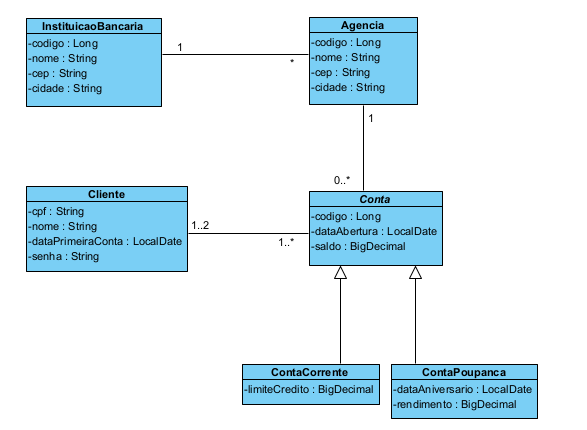
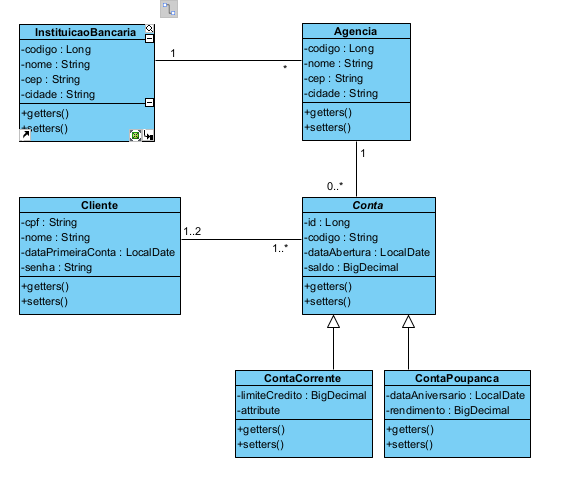
Atualização dos Diagramas e Controllers, Services e DTOs

Changed region(s): [[0.0311, 0.0, 0.9343, 0.9977]]

diff --git a/src/main/java/br/edu/fateczl/sistema_bancario/service/AgenciaService.java b/src/main/java/br/edu/fateczl/sistema_bancario/service/AgenciaService.java
@@ -4,45 +4,70 @@ import br.edu.fateczl.sistema_bancario.dto.AgenciaDTO;
 import br.edu.fateczl.sistema_bancario.model.Agencia;
 import br.edu.fateczl.sistema_bancario.model.InstituicaoBancaria;
 import br.edu.fateczl.sistema_bancario.persistence.AgenciaRepository;
+import br.edu.fateczl.sistema_bancario.persistence.InstituicaoBancariaRepository;
 import org.springframework.beans.factory.annotation.Autowired;
 import org.springframework.stereotype.Service;
 
+import java.util.ArrayList;
 import java.util.List;
 
 @Service
 public class AgenciaService {
+
     @Autowired
     private AgenciaRepository agenciaRepository;
 
-    public String inserirAgencia(AgenciaDTO dto) {
-        InstituicaoBancaria instituicaoBancaria = new InstituicaoBancaria();
-        instituicaoBancaria.setCodigo(dto.getInstituicaoCodigo());
+    @Autowired
+    private InstituicaoBancariaRepository instituicaoBancariaRepository;
 
-        Agencia agencia = new Agencia();
-        agencia.setNome(dto.getNome());
-        agencia.setCep(dto.getCep());
-        agencia.setCidade(dto.getCidade());
-        agencia.setInstituicao(instituicaoBancaria);
+    public void inserirAgencia(AgenciaDTO dto) {
+        InstituicaoBancaria instituicao = instituicaoBancariaRepository.findById(dto.getCodigoInstituicao()).orElseThrow(() -> new RuntimeException("Instituição não encontrada"));
 
-        agenciaRepository.save(agencia);
-        return "Agencia criada com sucesso";
+        Agencia entidade = new Agencia();
+        entidade.setCodigo(dto.getCodigo());
+        entidade.setNome(dto.getNome());
+        entidade.setCep(dto.getCep());
+        entidade.setCidade(dto.getCidade());
+        entidade.setInstituicao(instituicao);
+        agenciaRepository.save(entidade);
     }
 
-    public String modificarAgencia(Agencia agencia) {
-        agenciaRepository.save(agencia);
-        return "Agencia atualizada com sucesso";
+    public AgenciaDTO buscarAgencia(Long codigo){
+        Agencia agencia = agenciaRepository.findById(codigo).orElseThrow(() -> new RuntimeException("Agencia não encontrada"));
+        return new AgenciaDTO(
+                agencia.getCodigo(),
+                agencia.getNome(),
+                agencia.getCep(),
+                agencia.getCidade(),
+                codigo
+        );
     }
 
-    public String excluirAgencia(Long codigo) {
+    public void modificarAgencia(AgenciaDTO dto) {
+        Agencia agencia = agenciaRepository.findById(dto.getCodigo()).orElseThrow(() -> new RuntimeException("Instituição Bancaria não encontrada"));
+        if (dto.getNome() != null) agencia.setNome(dto.getNome());
+        if (dto.getCep() != null) agencia.setCep(dto.getCep());
+        if (dto.getCidade() != null) agencia.setCidade(dto.getCidade());
+        agenciaRepository.save(agencia);
+    }
+
+    public void excluirAgencia(Long codigo) {
         agenciaRepository.deleteById(codigo);
-        return "Agencia excluída com sucesso";
     }
 
-    public Agencia buscarAgencia(Long codigo){
-        return agenciaRepository.findById(codigo).orElse(null);
-    }
+    public List<AgenciaDTO> listarAgencias() {
+        List<Agencia> listaEntidades = agenciaRepository.findAll();
+        List<AgenciaDTO> resposta = new ArrayList<>();
 
-    public List<Agencia> listarAgencias() {
-        return agenciaRepository.findAll();
+        for (Agencia i : listaEntidades) {
+            resposta.add(new AgenciaDTO(
+                    i.getCodigo(),
+                    i.getNome(),
+                    i.getCep(),
+                    i.getCidade(),
+                    i.getCodigo()
+            ));
+        }
+        return resposta;
     }
 }

diff --git a/src/main/java/br/edu/fateczl/sistema_bancario/service/InstituicaoBancariaService.java b/src/main/java/br/edu/fateczl/sistema_bancario/service/InstituicaoBancariaService.java
@@ -6,10 +6,12 @@ import br.edu.fateczl.sistema_bancario.persistence.InstituicaoBancariaRepository
 import org.springframework.beans.factory.annotation.Autowired;
 import org.springframework.stereotype.Service;
 
+import java.util.ArrayList;
 import java.util.List;
 
 @Service
 public class InstituicaoBancariaService {
+
     @Autowired
     private InstituicaoBancariaRepository instituicaoBancariaRepository;
 
@@ -22,21 +24,40 @@ public class InstituicaoBancariaService {
         instituicaoBancariaRepository.save(entidade);
     }
 
-    public String atualizarInstituicaoBancaria(InstituicaoBancaria instituicaoBancaria) {
-        instituicaoBancariaRepository.save(instituicaoBancaria);
-        return "Instituicao Bancaria atualizada com sucesso";
+    public InstituicaoBancariaDTO buscarInstituicaoBancaria(Long codigo) {
+        InstituicaoBancaria instituicao = instituicaoBancariaRepository.findById(codigo).orElseThrow(() -> new RuntimeException("Instituição Bancaria não encontrada"));
+        return new InstituicaoBancariaDTO(
+                instituicao.getCodigo(),
+                instituicao.getNome(),
+                instituicao.getCep(),
+                instituicao.getCidade()
+        );
     }
 
-    public String excluirInstituicaoBancaria(Long codigo) {
+    public void atualizarInstituicaoBancaria(InstituicaoBancariaDTO dto) {
+        InstituicaoBancaria entidade = instituicaoBancariaRepository.findById(dto.getCodigo()).orElseThrow(() -> new RuntimeException("Instituição Bancaria não encontrada"));
+        if (dto.getNome() != null) entidade.setNome(dto.getNome());
+        if (dto.getCep() != null) entidade.setCep(dto.getCep());
+        if (dto.getCidade() != null) entidade.setCidade(dto.getCidade());
+        instituicaoBancariaRepository.save(entidade);
+    }
+
+    public void excluirInstituicaoBancaria(Long codigo) {
         instituicaoBancariaRepository.deleteById(codigo);
-        return "Instituicao Bancaria excluída com sucesso";
     }
 
-    public InstituicaoBancaria buscarInstituicaoBancaria(Long codigo){
-        return instituicaoBancariaRepository.findById(codigo).orElse(null);
-    }
+    public List<InstituicaoBancariaDTO> listarInstituicoesBancarias() {
+        List<InstituicaoBancaria> listaEntidades = instituicaoBancariaRepository.findAll();
+        List<InstituicaoBancariaDTO> resposta = new ArrayList<>();
 
-    public List<InstituicaoBancaria> listarInstituicoesBancarias() {
-        return instituicaoBancariaRepository.findAll();
+        for (InstituicaoBancaria i : listaEntidades) {
+            resposta.add(new InstituicaoBancariaDTO(
+                    i.getCodigo(),
+                    i.getNome(),
+                    i.getCep(),
+                    i.getCidade()
+            ));
+        }
+        return resposta;
     }
 }

diff --git a/src/main/java/br/edu/fateczl/sistema_bancario/controller/InstituicaoBancariaController.java b/src/main/java/br/edu/fateczl/sistema_bancario/controller/InstituicaoBancariaController.java
@@ -2,7 +2,6 @@ package br.edu.fateczl.sistema_bancario.controller;
 
 
 import br.edu.fateczl.sistema_bancario.dto.InstituicaoBancariaDTO;
-import br.edu.fateczl.sistema_bancario.model.InstituicaoBancaria;
 import br.edu.fateczl.sistema_bancario.service.InstituicaoBancariaService;
 import org.springframework.beans.factory.annotation.Autowired;
 import org.springframework.web.bind.annotation.*;
@@ -23,17 +22,12 @@ public class InstituicaoBancariaController {
     }
 
     @GetMapping("/{codigo}")
-    public InstituicaoBancaria buscarInstituicaoBancaria(@PathVariable Long codigo) {
+    public InstituicaoBancariaDTO buscarInstituicaoBancaria(@PathVariable Long codigo) {
         return instituicaoBancariaService.buscarInstituicaoBancaria(codigo);
     }
 
-    @GetMapping
-    public List<InstituicaoBancaria> listarInstituicoesBancarias() {
-        return instituicaoBancariaService.listarInstituicoesBancarias();
-    }
-
     @PutMapping
-    public String atualizarInstituicaoBancaria(@RequestBody InstituicaoBancaria instituicao) {
+    public String atualizarInstituicaoBancaria(@RequestBody InstituicaoBancariaDTO instituicao) {
         instituicaoBancariaService.atualizarInstituicaoBancaria(instituicao);
         return "Instituicao Bancaria modificada";
     }
@@ -43,4 +37,10 @@ public class InstituicaoBancariaController {
         instituicaoBancariaService.excluirInstituicaoBancaria(codigo);
         return "Instituição Bancária excluida com sucesso";
     }
+
+    @GetMapping
+    public List<InstituicaoBancariaDTO> listarInstituicoesBancarias() {
+        return instituicaoBancariaService.listarInstituicoesBancarias();
+    }
+
 }

diff --git a/src/main/java/br/edu/fateczl/sistema_bancario/service/ContaService.java b/src/main/java/br/edu/fateczl/sistema_bancario/service/ContaService.java
@@ -10,6 +10,7 @@ import java.util.List;
 
 @Service
 public class ContaService {
+
     @Autowired
     private ContaRepository contaRepository;
 
@@ -17,11 +18,15 @@ public class ContaService {
     private ContaProcedureRepository contaProcedureRepository;
 
     public String criarConta(Conta conta) {
-        return contaProcedureRepository.criarConta(
+        return contaProcedureRepository.criarConta( //TODO
                 conta.getDataAbertura(),
                 conta.getSaldo(),
                 conta.getAgencia().getCodigo()
         );
+    }
+
+    public Conta buscarConta(Long id){
+        return contaRepository.findById(id).orElse(null);
     }
 
     public String atualizarSaldo(Conta conta) {
@@ -48,10 +53,6 @@ public class ContaService {
         return "Conta excluída com sucesso";
     }
 
-    public Conta buscarConta(Long id){
-        return contaRepository.findById(id).orElse(null);
-    }
-
     public List<Conta> listarContas() {
         return contaRepository.findAll();
     }
@@ -63,7 +64,7 @@ public class ContaService {
 //
 //    public Conta buscarDadosContas(String cpf) {
 //        //Da pra fazer sem procedure eu acho
-//        //TODO basicamente pegar do banco e montar um DTO pra jogar, seria tipo um find all by id
+//        //TODO basicamente pegar do banco e montar um DTO pra jogar, seria tipo um find all by cpf
 //        return null;
 //    }
 }

diff --git a/src/main/java/br/edu/fateczl/sistema_bancario/controller/AgenciaController.java b/src/main/java/br/edu/fateczl/sistema_bancario/controller/AgenciaController.java
@@ -22,17 +22,12 @@ public class AgenciaController {
     }
 
     @GetMapping("/{codigo}")
-    public Agencia buscarAgencia(@PathVariable Long codigo) {
+    public AgenciaDTO buscarAgencia(@PathVariable Long codigo) {
         return agenciaService.buscarAgencia(codigo);
     }
 
-    @GetMapping
-    public List<Agencia> listarAgencias() {
-        return agenciaService.listarAgencias();
-    }
-
     @PutMapping
-    public String modificarAgencia(@RequestBody Agencia agencia) {
+    public String modificarAgencia(@RequestBody AgenciaDTO agencia) {
         agenciaService.modificarAgencia(agencia);
         return "Agencia modificada com sucesso";
     }
@@ -41,5 +36,9 @@ public class AgenciaController {
     public String excluirAgencia(@PathVariable Long codigo) {
         agenciaService.excluirAgencia(codigo);
         return "Agencia excluida com sucesso";
+    }
+    @GetMapping
+    public List<AgenciaDTO> listarAgencias() {
+        return agenciaService.listarAgencias();
     }
 }

diff --git a/src/main/java/br/edu/fateczl/sistema_bancario/controller/ClienteController.java b/src/main/java/br/edu/fateczl/sistema_bancario/controller/ClienteController.java
@@ -26,11 +26,6 @@ public class ClienteController {
         return clienteService.buscarCliente(cpf);
     }
 
-    @GetMapping
-    public List<Cliente> listarClientes() {
-        return clienteService.listarClientes();
-    }
-
     @PutMapping("/{cpf}")
     public String alterarSenha(@PathVariable String cpf, @RequestBody Cliente cliente) {
         clienteService.alterarSenha(cliente);
@@ -43,9 +38,14 @@ public class ClienteController {
         return "Cliente excluida com sucesso";
     }
 
+    @GetMapping
+    public List<Cliente> listarClientes() {
+        return clienteService.listarClientes();
+    }
+
     //TODO
 //    @PostMapping("/login")
-//    public String login(@RequestBody LoginDTO login) {
+//    public String autenticar(@RequestBody LoginDTO login) {
 //        boolean autenticado = clienteService.autenticar(login.getCpf(), login.getSenha());
 //        if (autenticado) {
 //            return "Login realizado com sucesso!";

diff --git a/src/main/java/br/edu/fateczl/sistema_bancario/controller/ContaController.java b/src/main/java/br/edu/fateczl/sistema_bancario/controller/ContaController.java
@@ -25,11 +25,6 @@ public class ContaController {
         return contaService.buscarConta(id);
     }
 
-    @GetMapping
-    public List<Conta> listarContas() {
-        return contaService.listarContas();
-    }
-
     @PutMapping("/saldo")
     public String atualizarSaldo(@RequestBody Conta conta) {
         contaService.atualizarSaldo(conta);
@@ -52,6 +47,11 @@ public class ContaController {
     public String excluirConta(@PathVariable Long id) {
         contaService.excluirConta(id);
         return "Conta excluida com sucesso";
+    }
+
+    @GetMapping
+    public List<Conta> listarContas() {
+        return contaService.listarContas();
     }
 
 //    TODO

diff --git a/src/main/java/br/edu/fateczl/sistema_bancario/service/ClienteService.java b/src/main/java/br/edu/fateczl/sistema_bancario/service/ClienteService.java
@@ -25,6 +25,10 @@ public class ClienteService {
         );
     }
 
+    public Cliente buscarCliente(String cpf){
+        return clienteRepository.findById(cpf).orElse(null);
+    }
+
     public void alterarSenha(Cliente cliente) {
         clienteProcedureRepository.alterarSenha(cliente);
         // TODO procedure
@@ -36,11 +40,9 @@ public class ClienteService {
         return "Cliente excluído com sucesso";
     }
 
-    public Cliente buscarCliente(String cpf){
-        return clienteRepository.findById(cpf).orElse(null);
-    }
-
     public List<Cliente> listarClientes() {
         return clienteRepository.findAll();
     }
+
+    //TODO autenticar
 }

diff --git a/src/main/java/br/edu/fateczl/sistema_bancario/dto/AgenciaDTO.java b/src/main/java/br/edu/fateczl/sistema_bancario/dto/AgenciaDTO.java
@@ -1,11 +1,14 @@
 package br.edu.fateczl.sistema_bancario.dto;
 
+import lombok.AllArgsConstructor;
 import lombok.Data;
 
 @Data
+@AllArgsConstructor
 public class AgenciaDTO {
+    private Long codigo;
     private String nome;
     private String cep;
     private String cidade;
-    private Long instituicaoCodigo;
+    private Long codigoInstituicao;
 }

diff --git a/src/main/java/br/edu/fateczl/sistema_bancario/dto/InstituicaoBancariaDTO.java b/src/main/java/br/edu/fateczl/sistema_bancario/dto/InstituicaoBancariaDTO.java
@@ -1,8 +1,10 @@
 package br.edu.fateczl.sistema_bancario.dto;
 
+import lombok.AllArgsConstructor;
 import lombok.Data;
 
 @Data
+@AllArgsConstructor
 public class InstituicaoBancariaDTO {
         private Long codigo;
         private String nome;
